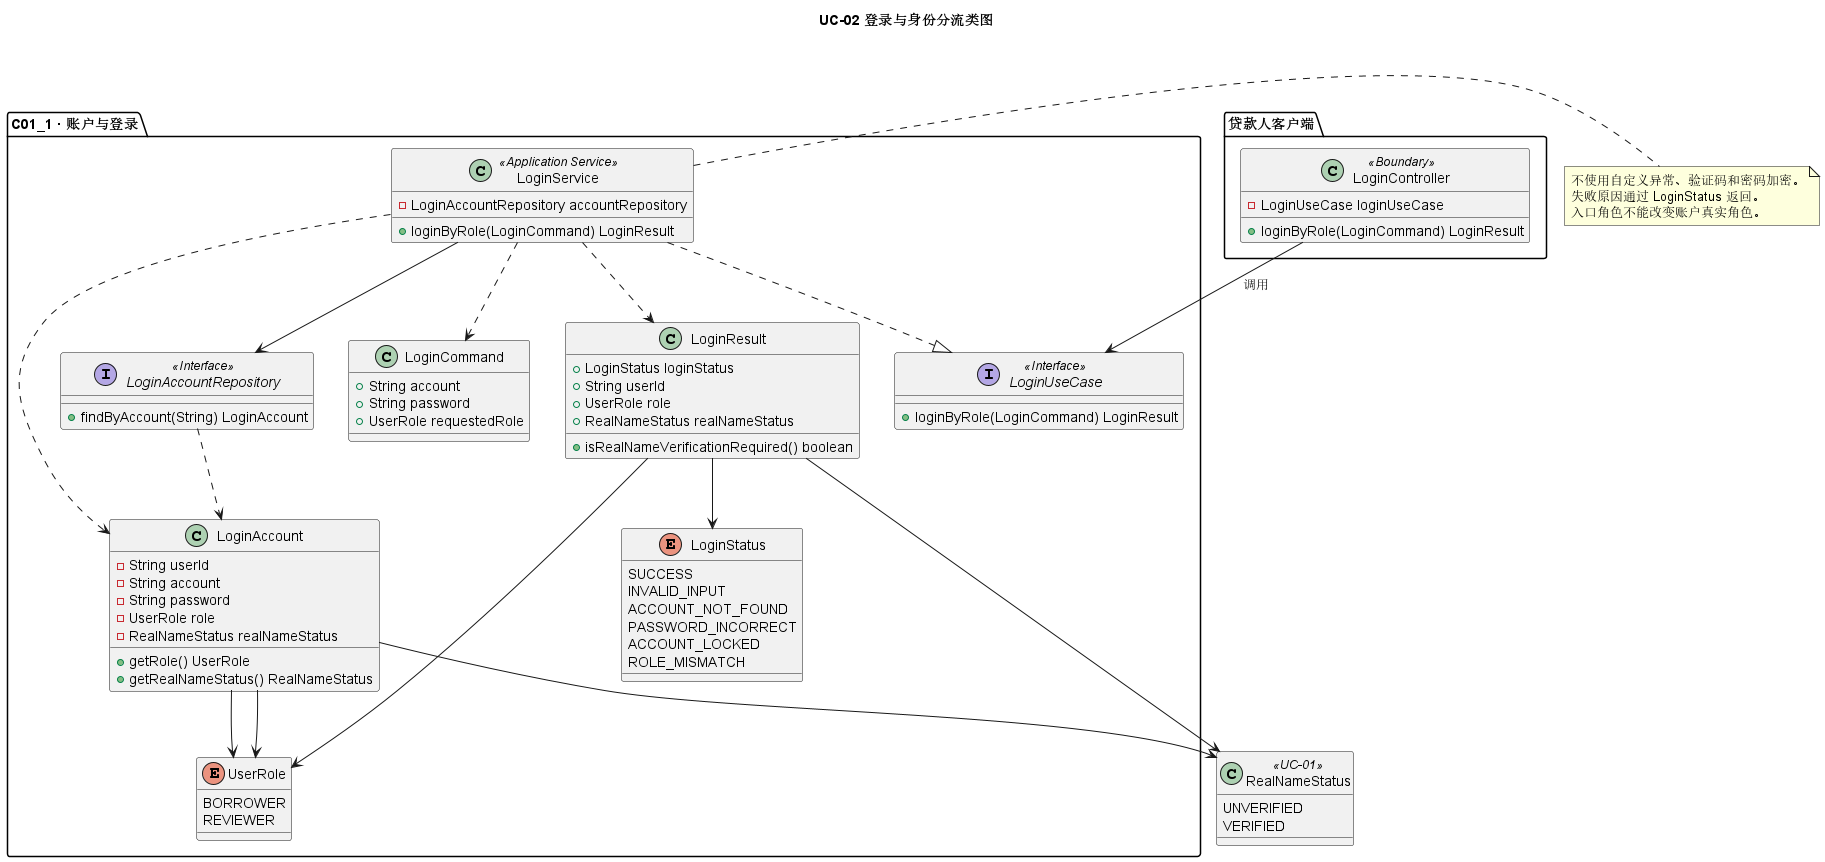
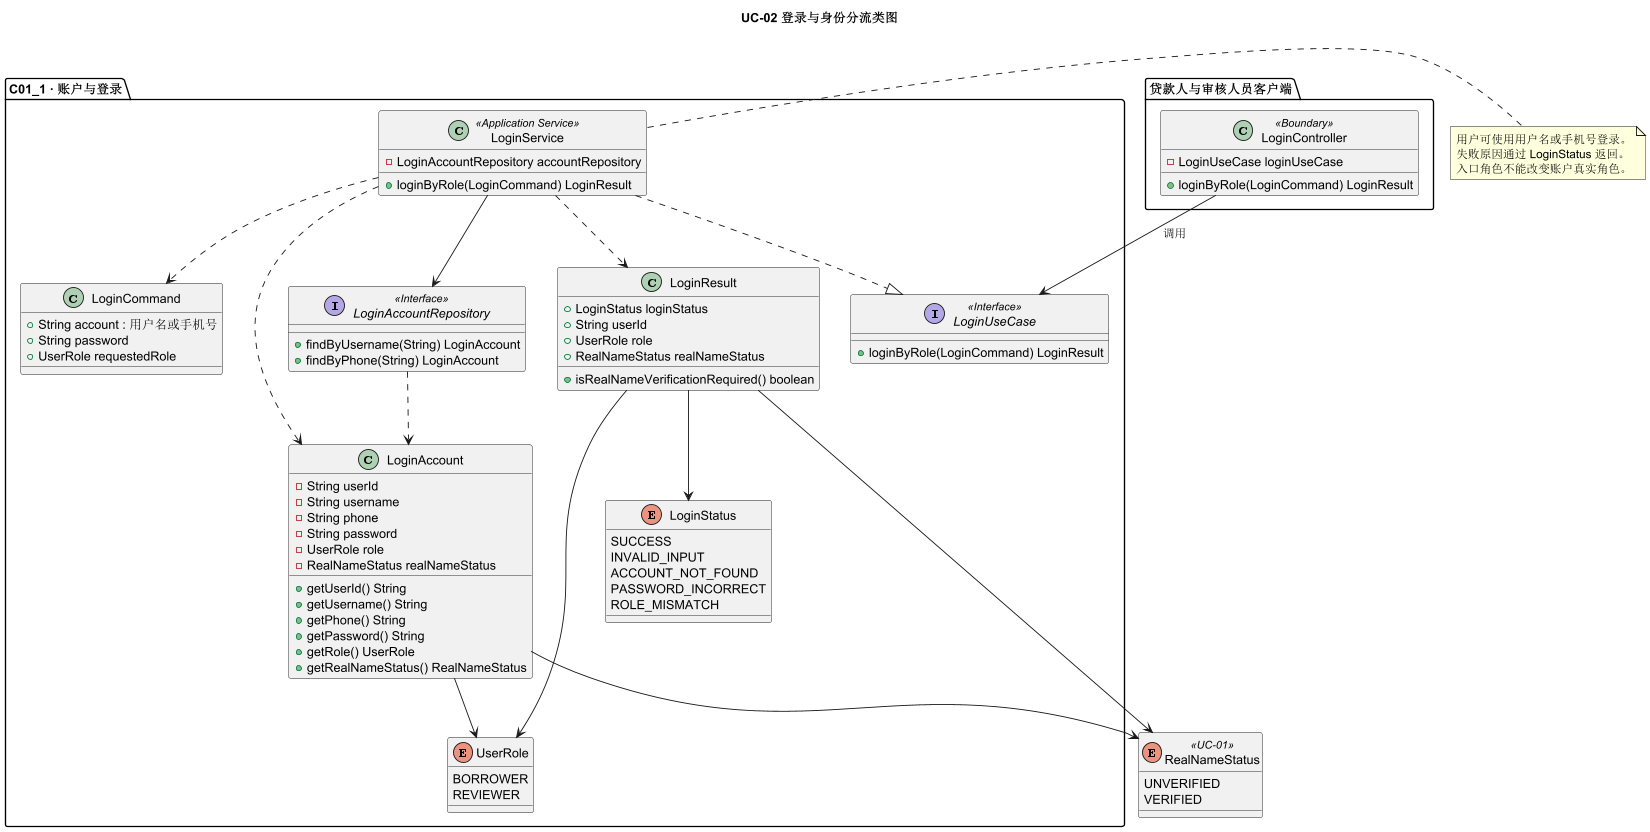
更新接口文档 添加UC_03新功能：查询银行卡

diff --git a/code/C01/UC_03/BankCardApplyService.java b/code/C01/UC_03/BankCardApplyService.java
@@ -1,0 +1,43 @@
+package UC_03;
+
+import java.util.ArrayList;
+import java.util.List;
+
+/*银行卡查询应用服务。用户默认已实名，不重复读取实名认证档案。*/
+public class BankCardApplyService implements BankCardApplyUseCase {
+    private final BankCardRepository bankCardRepository;
+
+    public BankCardApplyService(BankCardRepository bankCardRepository) {
+        this.bankCardRepository = bankCardRepository;
+    }
+
+    @Override
+    public BankCardApplyResult queryBankCards(
+            BankCardApplyCommand command) {
+        if (!isValid(command)) {
+            return BankCardApplyResult.failure(
+                    BankCardApplyStatus.INVALID_INPUT
+            );
+        }
+
+        List<BankCard> bankCards =
+                bankCardRepository.findByUserId(command.userId);
+        List<BankCardSummary> summaries = new ArrayList<>();
+        if (bankCards != null) {
+            for (BankCard bankCard : bankCards) {
+                if (bankCard == null) {
+                    continue;
+                }
+                summaries.add(BankCardSummary.from(bankCard));
+            }
+        }
+
+        return BankCardApplyResult.success(summaries);
+    }
+
+    private boolean isValid(BankCardApplyCommand command) {
+        return command != null
+                && command.userId != null
+                && !command.userId.isBlank();
+    }
+}

diff --git a/code/C01/UC_03/IdentityAndBankCardController.java b/code/C01/UC_03/IdentityAndBankCardController.java
@@ -1,15 +1,18 @@
 package UC_03;
 
-/*边界类，接收实名认证和银行卡绑定请求。*/
+/*边界类，接收实名认证、银行卡绑定和银行卡查询请求。*/
 public class IdentityAndBankCardController {
     private final VerifyIdentityUseCase verifyIdentityUseCase;
     private final BindBankCardUseCase bindBankCardUseCase;
+    private final BankCardApplyUseCase bankCardApplyUseCase;
 
     public IdentityAndBankCardController(
             VerifyIdentityUseCase verifyIdentityUseCase,
-            BindBankCardUseCase bindBankCardUseCase) {
+            BindBankCardUseCase bindBankCardUseCase,
+            BankCardApplyUseCase bankCardApplyUseCase) {
         this.verifyIdentityUseCase = verifyIdentityUseCase;
         this.bindBankCardUseCase = bindBankCardUseCase;
+        this.bankCardApplyUseCase = bankCardApplyUseCase;
     }
 
     public VerifyIdentityResult verifyIdentity(
@@ -20,5 +23,10 @@ public class IdentityAndBankCardController {
     public BindBankCardResult bindBankCard(
             BindBankCardCommand command) {
         return bindBankCardUseCase.bindBankCard(command);
+    }
+
+    public BankCardApplyResult queryBankCards(
+            BankCardApplyCommand command) {
+        return bankCardApplyUseCase.queryBankCards(command);
     }
 }

diff --git a/code/C01/UC_02/LoginAccount.java b/code/C01/UC_02/LoginAccount.java
@@ -5,14 +5,16 @@ import UC_01.RealNameStatus;
 /*登录所需的账户信息快照，由账户仓储查询得到。*/
 public class LoginAccount {
     private final String userId;
-    private final String account;
+    private final String username;
+    private final String phone;
     private final String password;
     private final UserRole role;
     private final RealNameStatus realNameStatus;
 
-    public LoginAccount(String userId,String account,String password,UserRole role,RealNameStatus realNameStatus) {
+    public LoginAccount(String userId,String username,String phone,String password,UserRole role,RealNameStatus realNameStatus) {
         this.userId = userId;
-        this.account = account;
+        this.username = username;
+        this.phone = phone;
         this.password = password;
         this.role = role;
         this.realNameStatus = realNameStatus;
@@ -22,8 +24,12 @@ public class LoginAccount {
         return userId;
     }
 
-    public String getAccount() {
-        return account;
+    public String getUsername() {
+        return username;
+    }
+
+    public String getPhone() {
+        return phone;
     }
 
     public String getPassword() {

diff --git a/code/C01/UC_03/BankCardApplyResult.java b/code/C01/UC_03/BankCardApplyResult.java
@@ -1,0 +1,28 @@
+package UC_03;
+
+import java.util.ArrayList;
+import java.util.Collections;
+import java.util.List;
+
+/*银行卡查询结果，仅向前端返回银行名称和脱敏卡号。*/
+public class BankCardApplyResult {
+    public BankCardApplyStatus status;
+    public List<BankCardSummary> bankCards;
+
+    public static BankCardApplyResult failure(BankCardApplyStatus status) {
+        BankCardApplyResult result = new BankCardApplyResult();
+        result.status = status;
+        result.bankCards = Collections.emptyList();
+        return result;
+    }
+
+    public static BankCardApplyResult success(
+            List<BankCardSummary> bankCards) {
+        BankCardApplyResult result = new BankCardApplyResult();
+        result.status = BankCardApplyStatus.SUCCESS;
+        result.bankCards = Collections.unmodifiableList(
+                new ArrayList<>(bankCards)
+        );
+        return result;
+    }
+}

diff --git a/code/C01/UC_02/LoginResult.java b/code/C01/UC_02/LoginResult.java
@@ -2,7 +2,7 @@ package UC_02;
 
 import UC_01.RealNameStatus;
 
-/*登录结果，成功时返回会话Token、用户标识、可信角色和实名状态。*/
+/*登录结果，成功时返回用户标识、可信角色和实名状态。*/
 public class LoginResult {
     public LoginStatus loginStatus;
     public String userId;
@@ -11,6 +11,7 @@ public class LoginResult {
 
     public boolean isRealNameVerificationRequired() {
         return loginStatus == LoginStatus.SUCCESS
-                && role == UserRole.BORROWER;
+                && role == UserRole.BORROWER
+                && realNameStatus == RealNameStatus.UNVERIFIED;
     }
 }

diff --git a/code/C01/UC_03/BankCardSummary.java b/code/C01/UC_03/BankCardSummary.java
@@ -1,0 +1,19 @@
+package UC_03;
+
+/*银行卡查询返回项，不暴露完整卡号。*/
+public class BankCardSummary {
+    public final String bankName;
+    public final String maskedCardNumber;
+
+    public BankCardSummary(String bankName, String maskedCardNumber) {
+        this.bankName = bankName;
+        this.maskedCardNumber = maskedCardNumber;
+    }
+
+    public static BankCardSummary from(BankCard bankCard) {
+        return new BankCardSummary(
+                bankCard.getBankName(),
+                bankCard.getMaskedCardNumber()
+        );
+    }
+}

diff --git a/code/C01/UC_02/LoginService.java b/code/C01/UC_02/LoginService.java
@@ -17,7 +17,10 @@ public class LoginService implements LoginUseCase {
             return failure(LoginStatus.INVALID_INPUT);
         }
 
-        LoginAccount account = accountRepository.findByAccount(command.account);
+        LoginAccount account = accountRepository.findByUsername(command.account);
+        if (account == null) {
+            account = accountRepository.findByPhone(command.account);
+        }
 
         if (account == null) {
             return failure(LoginStatus.ACCOUNT_NOT_FOUND);

diff --git a/code/C01/UC_03/BankCardRepository.java b/code/C01/UC_03/BankCardRepository.java
@@ -1,9 +1,13 @@
 package UC_03;
 
+import java.util.List;
+
 /*银行卡仓储接口，数据库实现由外部提供。*/
 public interface BankCardRepository {
 
     boolean existsByCardNumber(String cardNumber);
 
     BankCard save(BankCard bankCard);
+
+    List<BankCard> findByUserId(String userId);
 }

diff --git a/code/C01/UC_02/LoginAccountRepository.java b/code/C01/UC_02/LoginAccountRepository.java
@@ -3,5 +3,6 @@ package UC_02;
 /*账户登录信息仓储接口，数据库实现由外部提供。*/
 public interface LoginAccountRepository {
 
-    LoginAccount findByAccount(String account);
+    LoginAccount findByUsername(String username);
+    LoginAccount findByPhone(String phone);
 }

diff --git a/code/C01/UC_02/LoginCommand.java b/code/C01/UC_02/LoginCommand.java
@@ -1,6 +1,6 @@
 package UC_02;
 
-/*登录命令，封装账号、密码、入口角色*/
+/*登录命令，封装用户名或手机号、密码和入口角色*/
 public class LoginCommand {
     public String account;
     public String password;

diff --git a/code/C01/UC_03/BankCardApplyCommand.java b/code/C01/UC_03/BankCardApplyCommand.java
@@ -1,0 +1,6 @@
+package UC_03;
+
+/*银行卡查询命令。当前联调由前端提交 userId，生产环境应改由可信会话填充。*/
+public class BankCardApplyCommand {
+    public String userId;
+}

diff --git a/code/C01/UC_03/BankCardApplyUseCase.java b/code/C01/UC_03/BankCardApplyUseCase.java
@@ -1,0 +1,7 @@
+package UC_03;
+
+/*银行卡查询用例接口。*/
+public interface BankCardApplyUseCase {
+
+    BankCardApplyResult queryBankCards(BankCardApplyCommand command);
+}
